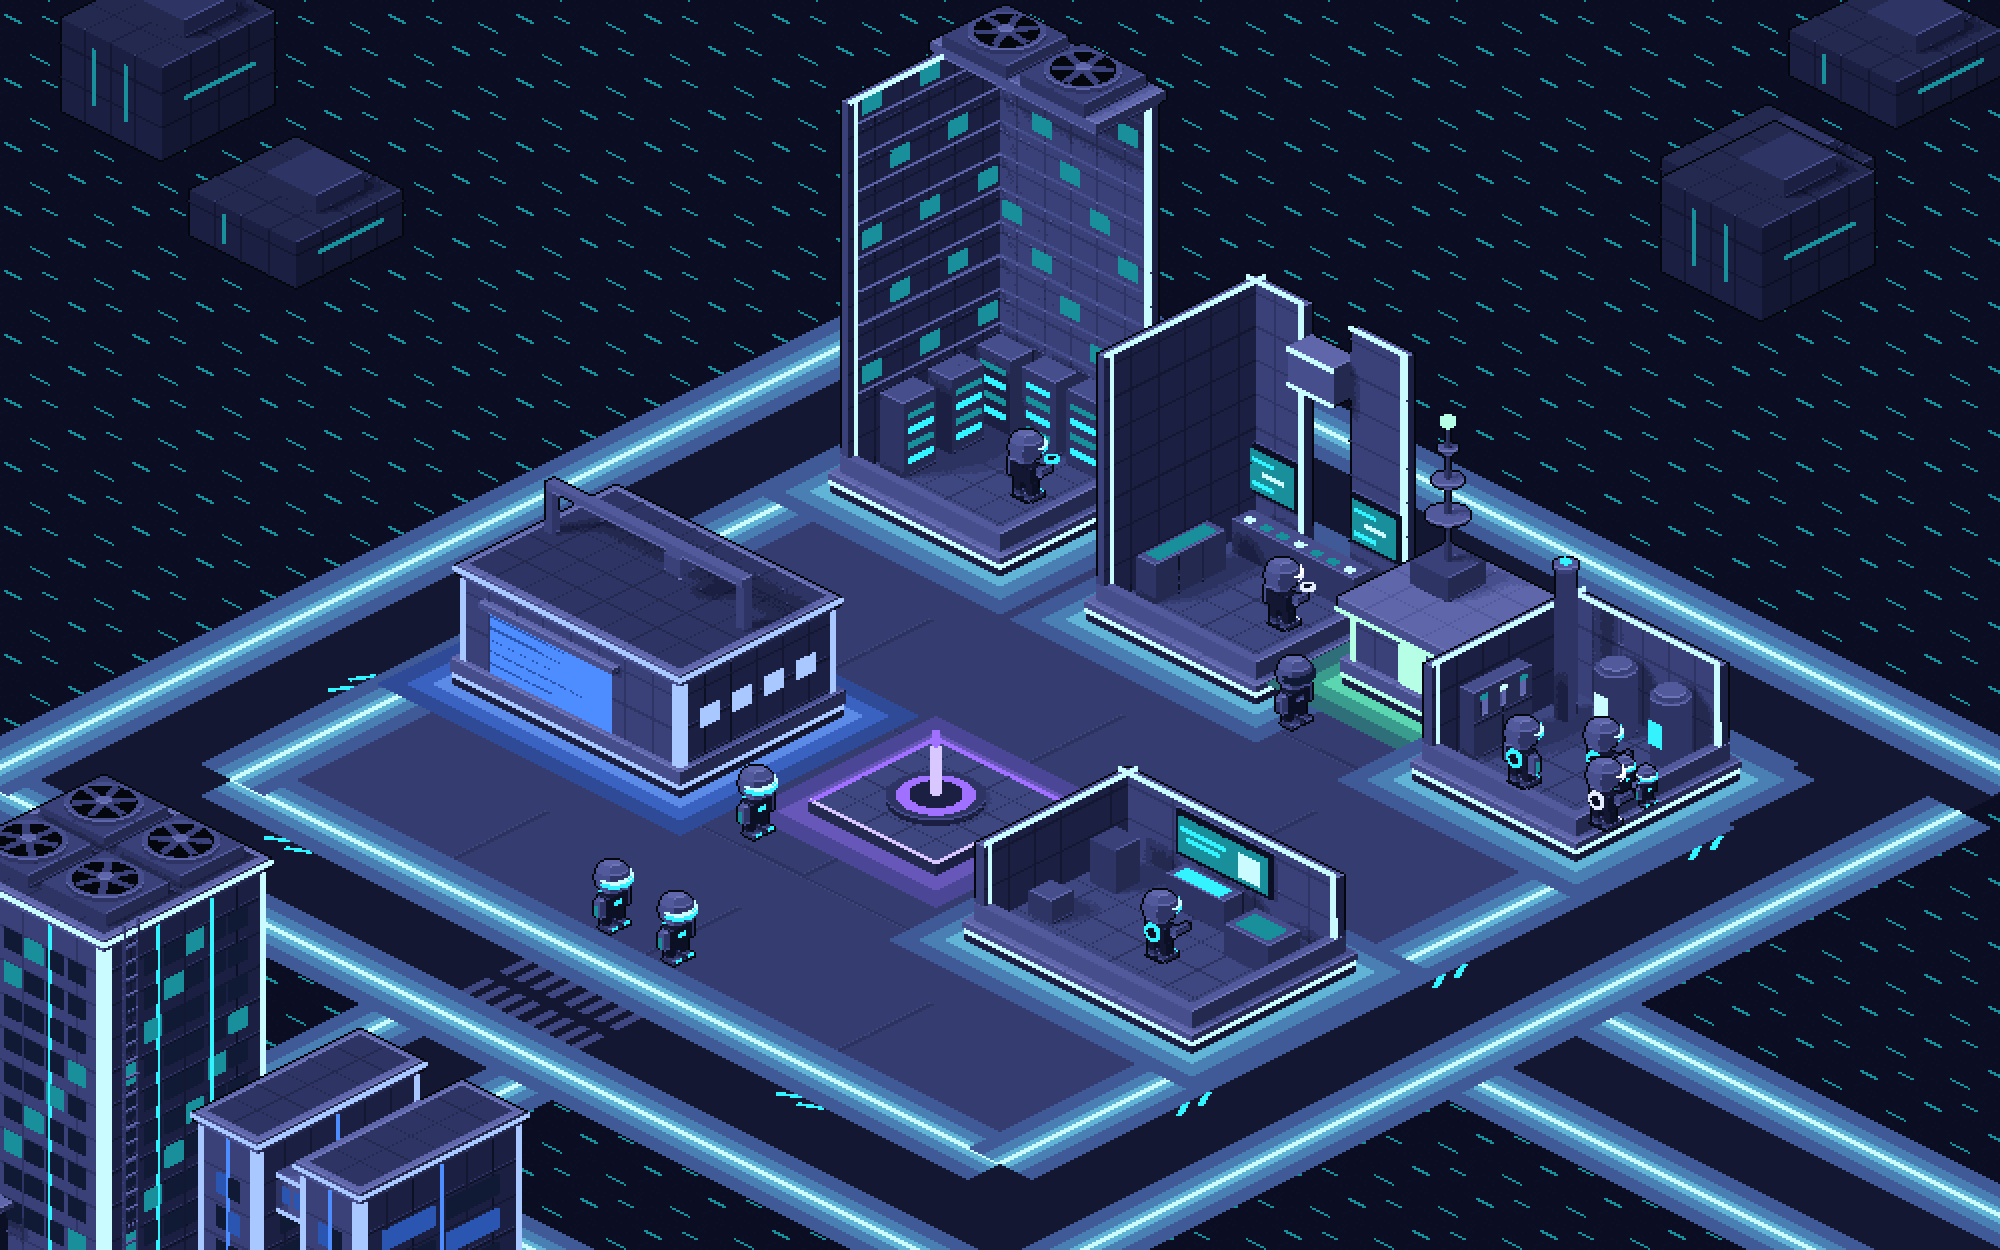
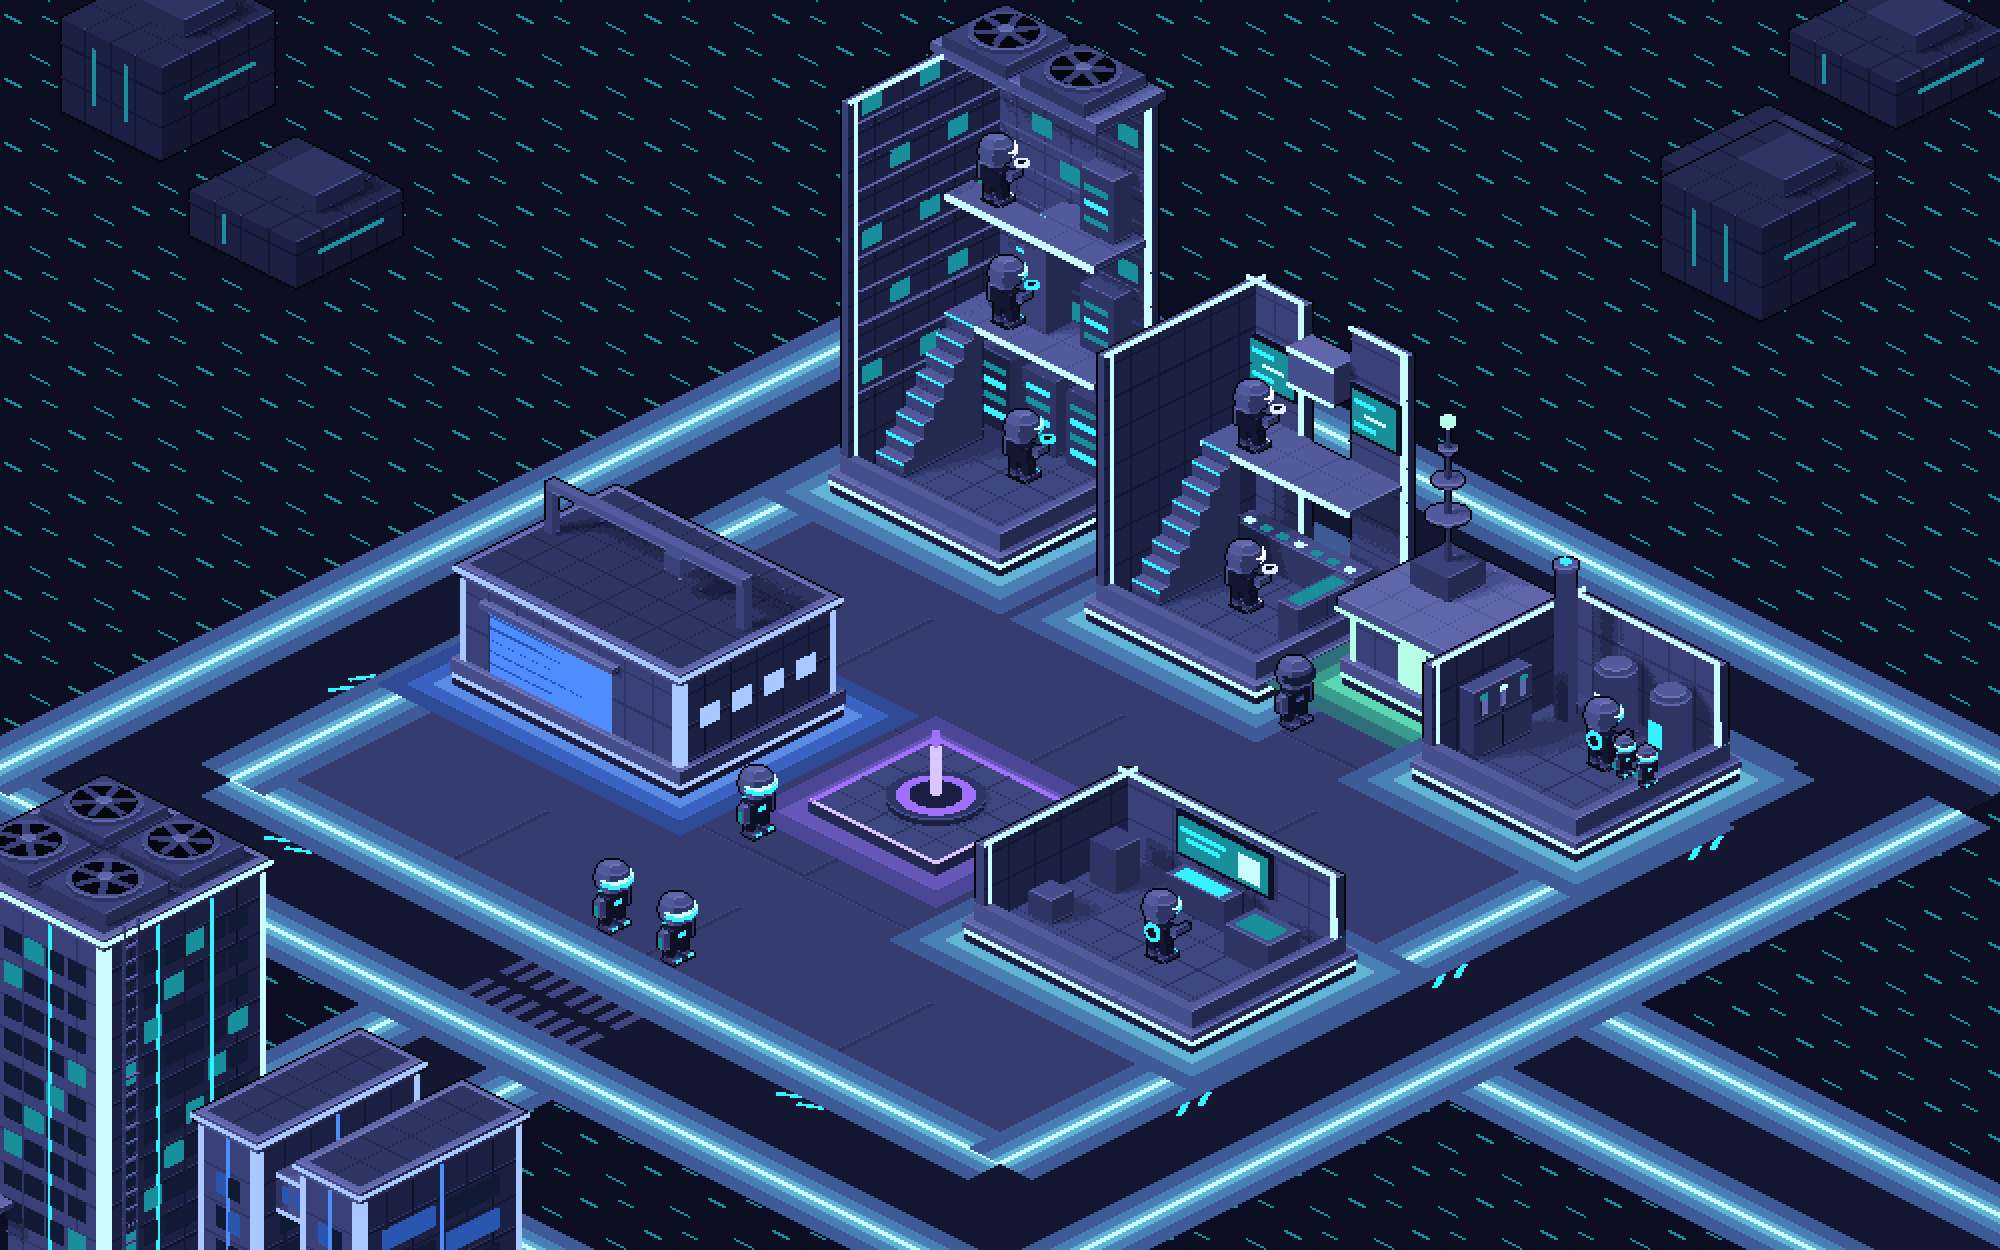
GRID-35: floors and stairs in the README and the art direction; pictures retaken

Changed region(s): [[0.434, 0.0936, 0.589, 0.4056], [0.558, 0.2496, 0.713, 0.5304], [0.744, 0.5616, 0.837, 0.6552]]

diff --git a/Assets/TheGrid/Tests/LayoutTests.cs b/Assets/TheGrid/Tests/LayoutTests.cs
@@ -231,6 +231,10 @@ namespace TheGrid.Core.Tests
                         Assert.AreEqual(Layout.FloorPixels + l.Floor(place, slot) * Layout.StoreyPixels, l.Lift(place, slot), .01f);
                         Assert.AreEqual(Iso.Point(origin.x + t.x, origin.y + t.y).y + l.Lift(place, slot), Iso.BotSpot(origin, l, place, slot).y, .01f);
                         // an upper floor reaches two floor squares out from the back wall: who stands on it stands within them
+                        // under a floor, a bot is near enough to that floor's open edge to be seen whole beneath it: a tile
+                        // further back is 32 pixels further under, and a bot is 34 pixels tall under a slab 3 thick
+                        if (l.Floor(place, slot) < floors - 1)
+                            Assert.LessOrEqual((Layout.FloorReach - (t.y - f0.yMin)) * 32 + 34, Layout.StoreyPixels - 3, "arrangement " + a + ": " + place + " slot " + slot + " is hidden by the floor above");
                         if (l.Floor(place, slot) > 0)
                             Assert.IsTrue(t.y - f0.yMin > -.1f && t.y - f0.yMin < Layout.FloorReach - .1f, "arrangement " + a + ": " + place + " slot " + slot + " at " + t + " is off its floor");
                     }

diff --git a/Assets/TheGrid/WorldStage.cs b/Assets/TheGrid/WorldStage.cs
@@ -353,7 +353,11 @@ namespace TheGrid
                 // drawn over the workshop's floor and not under it.
                 var at = new Vector3(Mathf.Round(p.x), Mathf.Round(p.y), -1 - p.z);
                 string pose, facing;
-                if (t >= 1f && Release(b)) stale = true;   // it has arrived: the building it left can close
+                if (t >= 1f)
+                {
+                    if (b.path.Count > 1) b.path.RemoveRange(0, b.path.Count - 1);   // it has arrived: it stands at the one point
+                    if (Release(b)) stale = true;                                    // and the building it left can close
+                }
                 if (t < 1f)
                 {
                     Walking = true;

diff --git a/README.md b/README.md
@@ -79,9 +79,13 @@ The sixth building, the relay, is where offline bots wait. The fifth is the PR d
 
 A bot at work goes inside. While anyone works in a building it is drawn opened, the way the test workshop always is: its two far walls stand, its two near ones are cut down to a kerb, and you see the bot at the racks of the server tower, the screens of the review hall or the reactors of the works. Six fit inside; a seventh waits at the door. When the last one leaves, the building closes again.
 
+**A tall building has floors.** The server tower has three and the review hall two; the works, a low building, has one. An upper floor runs along the back wall only and reaches two floor squares out from it, so the middle of the building is open to the roof and you see every floor at once. The six inside are spread over the floors. A bot walks to its place: in at the door, across the ground floor, up the stair on the left wall, and in the tower up a second stair along the back wall. It comes down the same way before it crosses the sector, and the building stays opened until it is out.
+
 **The lights of a building someone is working in pulse**: its lines, windows and glow go a step dimmer and back, about once every second and a half. A sector where lights are pulsing has agents at work; one that is still has none. Nothing else on the map moves for it.
 
 ![Bots at work inside the server tower, the review hall and the works](docs/art/world-working.png)
+
+![Bots on the stairs: two in the tower changing floors, one coming down in the hall](docs/art/world-stairs.png)
 
 Anything else is shown on the bot itself, wherever it stands:
 
@@ -151,7 +155,7 @@ To look at the world without any agent sessions, start the app on a roster snaps
 Builds/TheGrid.app/Contents/MacOS/"The Grid" -snapshot "$PWD/fixtures/world/snapshot.json"
 ```
 
-Add `-shots <folder>` and it saves `far.png` and `near.png` there and quits; `-select <account>|<session id>` selects that bot for `near.png`, and `-messages <pile snapshot file>` (try `fixtures/world/messages.json`) shows its messages arriving and saves `courier.png` and `pulse.png` too. `-pulls <file>` (try `fixtures/world/pulls.json`) puts those pull requests at the depots, since a snapshot never asks GitHub, and `-depot <sector name>` opens that depot's list in `near.png`. `-moved <world file>` lays the map again from that `world.json` after `far.png` and saves `moved.png`: a picture of a map its owner has arranged. With the editor closed, **The Grid > Render World Pictures** does much the same without a window, into `Logs/`, though without the names and badges:
+Add `-shots <folder>` and it saves `far.png` and `near.png` there and quits; `-select <account>|<session id>` selects that bot for `near.png`, and `-messages <pile snapshot file>` (try `fixtures/world/messages.json`) shows its messages arriving and saves `courier.png` and `pulse.png` too. `-pulls <file>` (try `fixtures/world/pulls.json`) puts those pull requests at the depots, since a snapshot never asks GitHub, and `-depot <sector name>` opens that depot's list in `near.png`. `-moved <world file>` lays the map again from that `world.json` after `far.png` and saves `moved.png`: a picture of a map its owner has arranged. `-then <snapshot file>` (try `fixtures/world/later.json`) swaps the snapshot for a later one after `near.png` and saves `stairs.png` with every bot that has somewhere new to go three fifths of its way there. With the editor closed, **The Grid > Render World Pictures** does much the same without a window, into `Logs/`, though without the names and badges:
 
 ```bash
 /Applications/Unity/Hub/Editor/6000.4.3f1/Unity.app/Contents/MacOS/Unity -batchmode -projectPath "$PWD" -executeMethod TheGrid.EditorTools.GridMenu.WorldPictures -quit

diff --git a/docs/art-direction.md b/docs/art-direction.md
@@ -41,6 +41,7 @@ The Grid is a virtual city where each repository occupies a sector and each codi
 14. **The owner arranges the map.** A region stands where it was put and a sector where it was put in its region; the app only chooses a place for what is new, and never moves what is there. Roads are worked out from where things stand, so they follow.
 15. **A pull request is a crate at the depot.** One of the six buildings is the depot; no bot works there. Each open pull request of the repo is a crate in front of its door: unlit for a draft, a band in the depot's own light while in review, amber when it is for the owner. Amber means the same on a crate as on a badge: this needs you.
 16. **A building is opened while a bot works in it, and its lights pulse.** Opened means what the test workshop always is: the two far walls at full height, the two near ones cut to a kerb, a lit floor, and along the far walls what the building is for (racks; screens and a console of buttons; reactors and a panel of levers). The middle of the floor is the bots'. Each opened building keeps one thing it is told by: the tower two of its fans on a ledge, the hall its bridge, the works its stack. The pulse is the building's own light a step down and back (`Lights.Dimmed`), never another colour. Empty, a building is closed and still.
+17. **A tall building has floors, and a bot takes the stairs.** The server tower has three floors, the review hall two. An upper floor is a floor along the back wall only, reaching two floor squares out from it, the same on every floor, with a line of light along its open edge; the middle of the building stays open from the ground to the roof, so every floor is seen. A stair goes up the left wall to the first floor; in the tower a second goes up along the back wall, from the left, and comes out through the second floor. Bots stand near a floor's open edge, where the floor above does not hide them, and keep to the left of it, clear of the building next along. A bot is drawn on the floor it is on and over its building, on a stair as anywhere. The heights are the art script's (`STOREY`, `REACH` in `buildings.py`) and the game's (`Layout.StoreyPixels`, `Layout.FloorReach`); a test holds them together.
 
 ## What stays from before
 

diff --git a/tools/art/README.md b/tools/art/README.md
@@ -20,7 +20,7 @@ This rewrites every PNG, `sprites.json` beside them, and `docs/art/contact-sheet
 |---|---|
 | `kit.py` | The camera, the palette, the building blocks (`box`, `light`, `disc`, `ball`, `limb`, `glow`), and `render`, which also gives what stands its depth |
 | `ground.py` | Paving, the lane, the void, lines of light, the fountain, city blocks |
-| `buildings.py` | The six buildings, the opened pictures of the three a bot works in, and the crates that stand at the depot |
+| `buildings.py` | The six buildings, the opened pictures of the three a bot works in (with the floors and stairs of the two tall ones), and the crates that stand at the depot |
 | `bots.py` | Bots in every pose and facing, the courier's bike, badges, the pulse |
 | `make_sprites.py` | The entry point |
 
@@ -69,6 +69,8 @@ Unity's import settings are set by `Assets/TheGrid/Editor/ArtImport.cs`, which t
 3. Render and look at the contact sheet. Every building is drawn in the same light: `"cyanw"` lines, `"cyan"` dimmer lines, `"teal"` windows, cyan glow. The game swaps those six colours for another family's (`Assets/TheGrid/Core/Lights.cs`): the primary light of the sector's region, or one of its accents. It does the same to the lines of light on the ground and the chevrons on a lane. So use no other light colour on a building, or the swap will leave it behind. A new family's colours go in `PALETTE` in `kit.py` as well, though no picture is drawn in them. Keep windows clear of the lines `shaft` draws up a wall. If the building is taller than before, raise its number in `Layout.Wall`; a test tells you.
 
 Keep the building, and the glow round it, inside its picture. The tests fail if a pixel touches the edge.
+
+The game stands bots on the floors of an opened tall building and walks them up its stairs, from numbers of its own (`Layout.StoreyPixels`, `Layout.FloorReach` and the stairs' ends in `Assets/TheGrid/Core/Layout.cs`). If you move a floor or a stair (`STOREY`, `REACH`, `upper_floor`, `stair`), change those too; a test fails if a bot on an upper floor has no floor edge in front of it.
 
 ## Add a pose
 

diff --git a/docs/roster-snapshot.md b/docs/roster-snapshot.md
@@ -69,7 +69,7 @@ The world view is built from the same snapshot (`World.Build`), so the two never
 
 Every sector has the same buildings and places, arranged and lit in its own way (`Layout`, from the sector's place on the map); what a place means is the same everywhere.
 
-A bot is one agent, told apart by `account` and `sessionId` together. Its place among the other bots at the same spot follows that pair, not the roster's order, so bots do not shuffle when the roster re-sorts. `fixtures/world/snapshot.json` is a synthetic snapshot with every state and activity in it.
+A bot is one agent, told apart by `account` and `sessionId` together. Its place among the other bots at the same spot follows that pair, not the roster's order, so bots do not shuffle when the roster re-sorts. `fixtures/world/snapshot.json` is a synthetic snapshot with every state and activity in it, and enough bots reading and reviewing in its first sector to stand on every floor of the tower and the hall. `fixtures/world/later.json` is the same roster a while later: some have changed what they do, so they change places.
 
 ### Messages arriving
 
